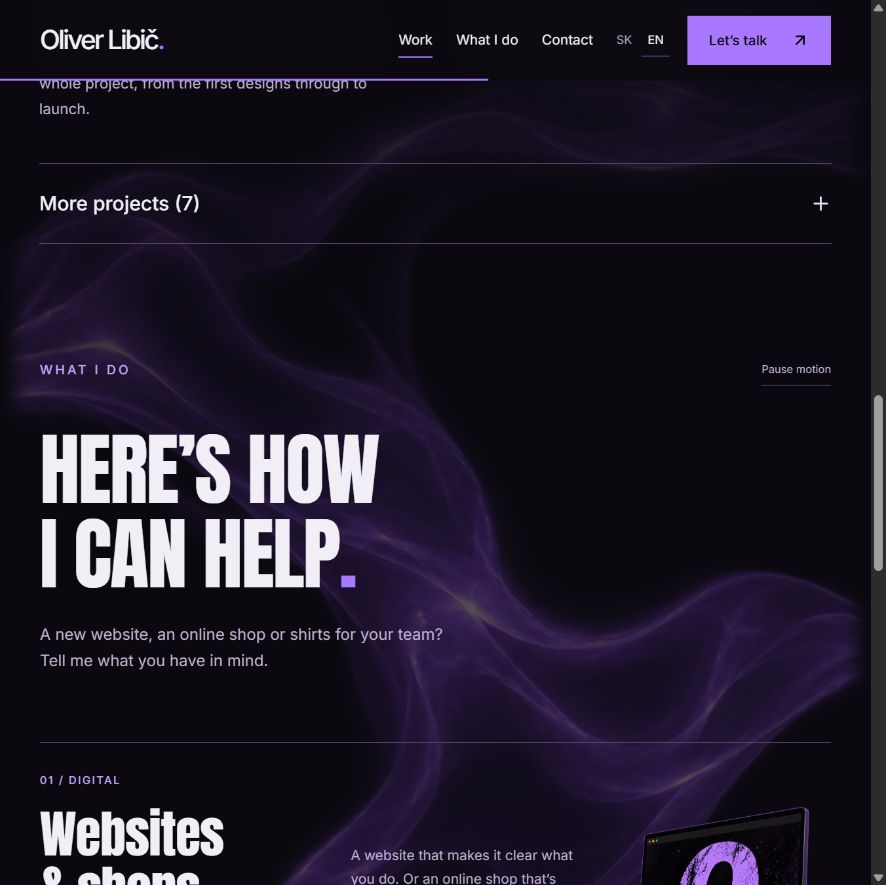
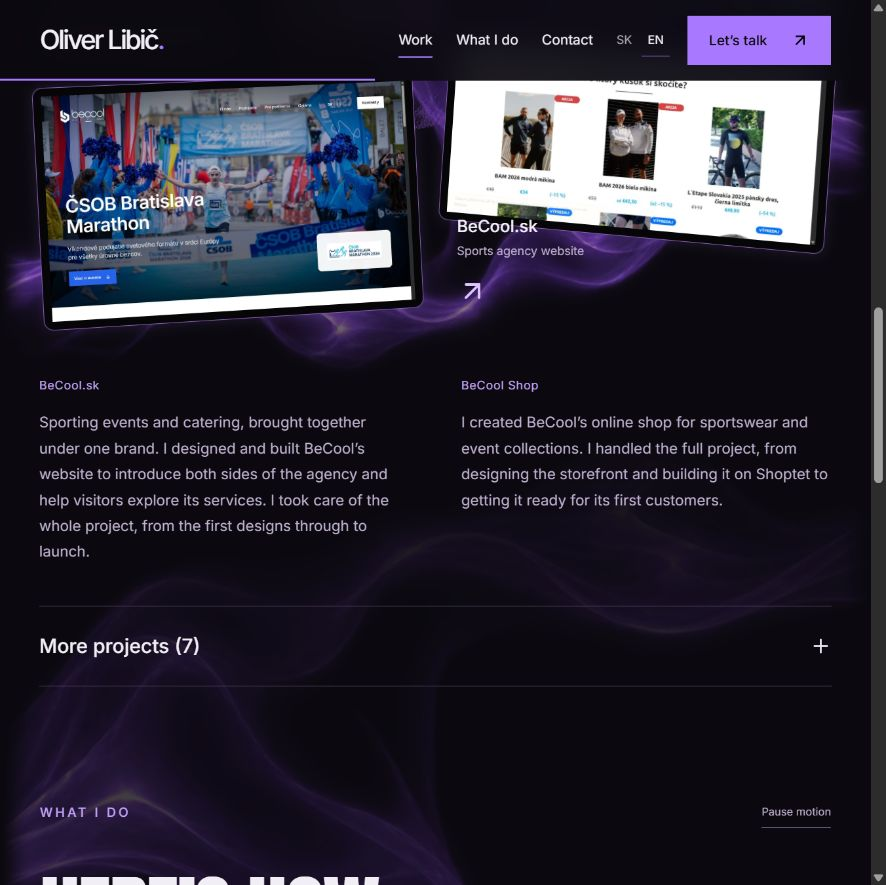
Record public project story verification

diff --git a/qa-project-stories/pr-body.md b/qa-project-stories/pr-body.md
@@ -1,0 +1,18 @@
+Portfólio predstavuje tvorbu webov, e-shopov, textilu a reklamných predmetov v slovenčine aj angličtine. Samostatné statické stránky `/` a `/en/` majú prirodzene formulované texty, prístupné popisy, e-mailové predmety a vlastné metadáta. SK/EN prepínač zachová čítanú sekciu, parametre adresy a rozbalené projekty či automatizácie.
+
+Čierno-fialový úvod s tričkom vystupujúcim z monitora plynulo prechádza do projektov, služieb a záveru „Poďme na to“ / „Let’s talk“. Spoločný liquid má pauzu, znížený pohyb a statickú náhradu. Kontakt vedie priamo na e-mail.
+
+Dva hlavné projekty a sedem ďalších používajú nové zábery zo skutočných webov, komprimované do WebP. Zdrojové adresy a dátum zachytenia sú v `qa-bilingual/project-sources.json`. Ghostlayer je podľa požiadavky vynechaný; nedostupný marekradic.sk je zatiaľ tiež mimo ukážok.
+
+Náhľad: [SK](https://codex-digital-merch-oliver-portfolio.oliver-6b1.workers.dev/) · [EN](https://codex-digital-merch-oliver-portfolio.oliver-6b1.workers.dev/en/)
+
+Overenie: 18 testov prešlo, build publikuje 43 povolených súborov. Skontrolované SK/EN rozloženia na mobile, tablete a desktope, prepínanie jazyka, menu, rozbaľovacie časti, pauza a pokojný režim. Bez horizontálneho pretečenia, chýb konzoly či poškodených načítaných obrázkov. Vizuálna kontrola je v `design-qa.md`; publikovanie v `qa-bilingual/PUBLIC.md`.
+
+Úprava aktualizuje verejný náhľad vetvy. Produkčná doména zostáva na doterajšej verzii.
+
+![Slovenská verzia](https://raw.githubusercontent.com/Sondeath/oliver-portfolio/codex/digital-merch/qa-bilingual/01-sk-desktop.jpg)
+![English version](https://raw.githubusercontent.com/Sondeath/oliver-portfolio/codex/digital-merch/qa-bilingual/02-en-desktop.jpg)
+
+
+
+Pridané sú aj používateľom schválené krátke príbehy BeCool Shop a BeCool.sk v oboch jazykoch. Na počítači pokračujú pod dvojicou displejov, na mobile priamo pod príslušným projektom. Texty uvádzajú kompletnú realizáciu od dizajnu po spustenie a pri e-shope platformu Shoptet. Overené na šírkach 320, 390, 901 a 1280 px; podrobnosti v qa-project-stories/QA.md a PUBLIC.md.

diff --git a/design-qa.md b/design-qa.md
@@ -36,3 +36,7 @@ Nine assets were captured through the browser from actual websites: two featured
 All 18 tests pass, including copy-key parity, static localization, language-specific metadata, native URLs, missing-copy failures and project asset provenance/count. Build emits 43 explicitly allowed public files. QA files, copy sources and render scripts are excluded from publication. Whitespace/syntax checks pass. Public branch deployment verification is recorded in qa-bilingual/PUBLIC.md; the main domain remains outside this preview update.
 
 No actionable P0/P1/P2 findings remain in the reviewed scope.
+
+## Project stories update
+
+2026-10-15. The user-approved SK/EN stories for BeCool Shop and BeCool.sk are now part of the project presentation. Full delivery from design to launch and the Shoptet platform are confirmed by the user. Desktop text follows the two displays; mobile text follows each corresponding project. Responsive screenshots, checks and successful public deployment are recorded in qa-project-stories/QA.md and qa-project-stories/PUBLIC.md. All 18 tests pass; build remains 43 public files.

diff --git a/qa-project-stories/PUBLIC.md b/qa-project-stories/PUBLIC.md
@@ -1,0 +1,11 @@
+# Public verification
+
+2026-10-15. Implementation commit 27644b6. Cloudflare build 4867938d-95e2-4918-933c-d499720fe0c2 succeeded.
+
+SK: https://codex-digital-merch-oliver-portfolio.oliver-6b1.workers.dev/#work
+
+EN: https://codex-digital-merch-oliver-portfolio.oliver-6b1.workers.dev/en/#work
+
+Reloaded both public language pages after the successful build. Both approved stories are present in the corresponding language. The public SK page renders the two desktop descriptions; mobile presentation was reviewed locally at 390px and in both languages at 320px. English and Slovak public pages have no horizontal overflow or console errors/warnings. Seven archive projects remain.
+
+08-public-sk.jpg shows the stories below the screens. public-browser.json records the observed SK copy and layout. The local 8787 preview also serves the updated 43-file build. No changes to the main production domain.
